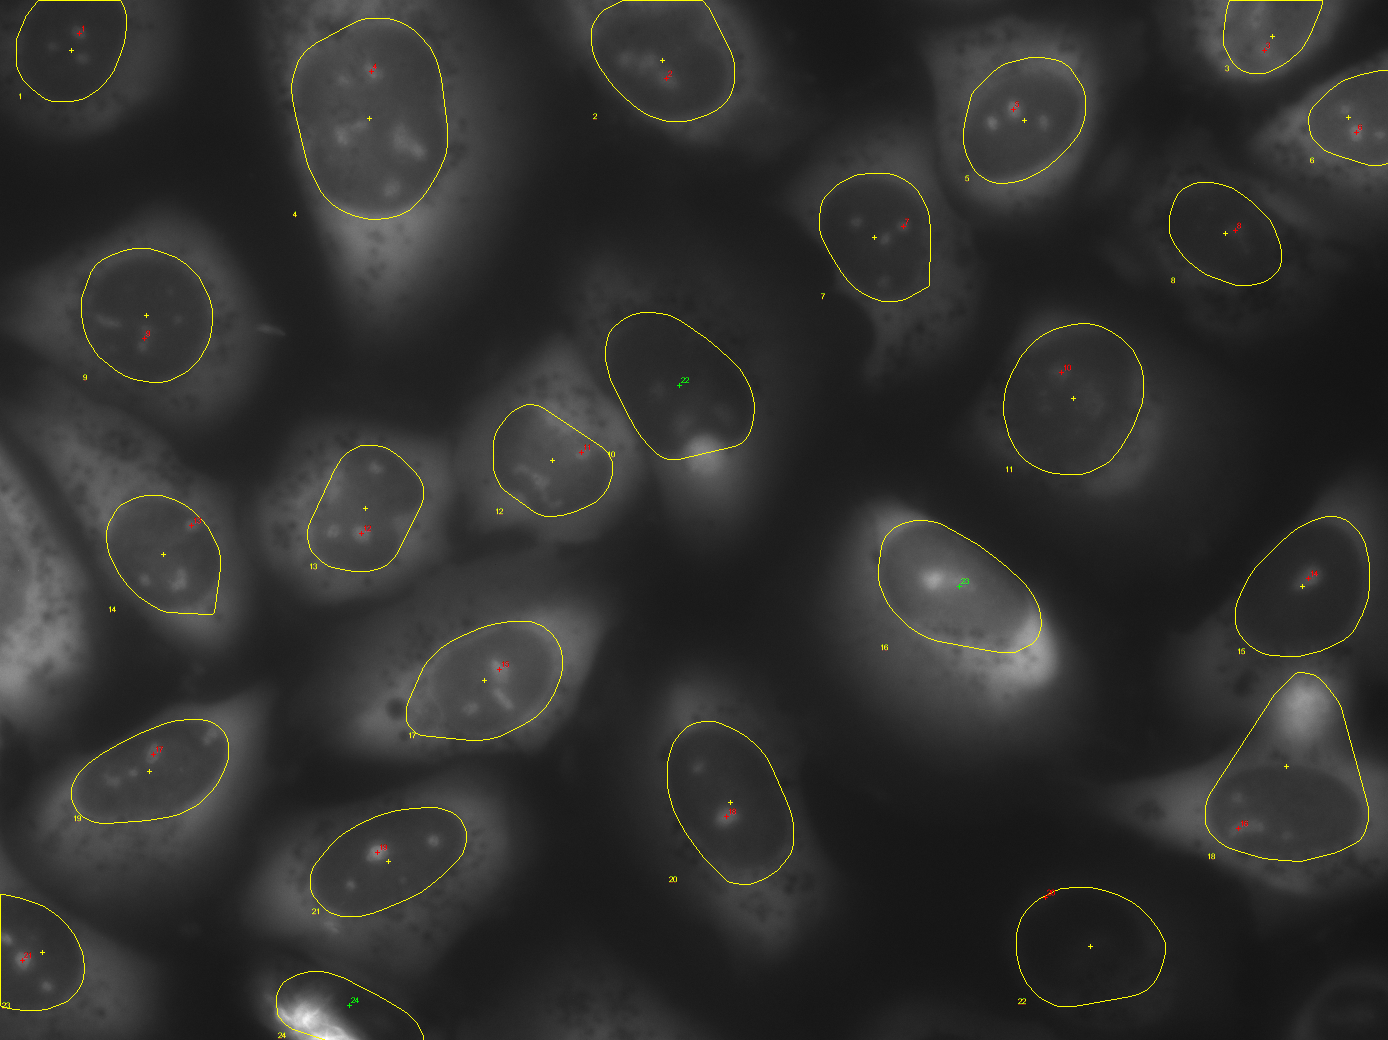
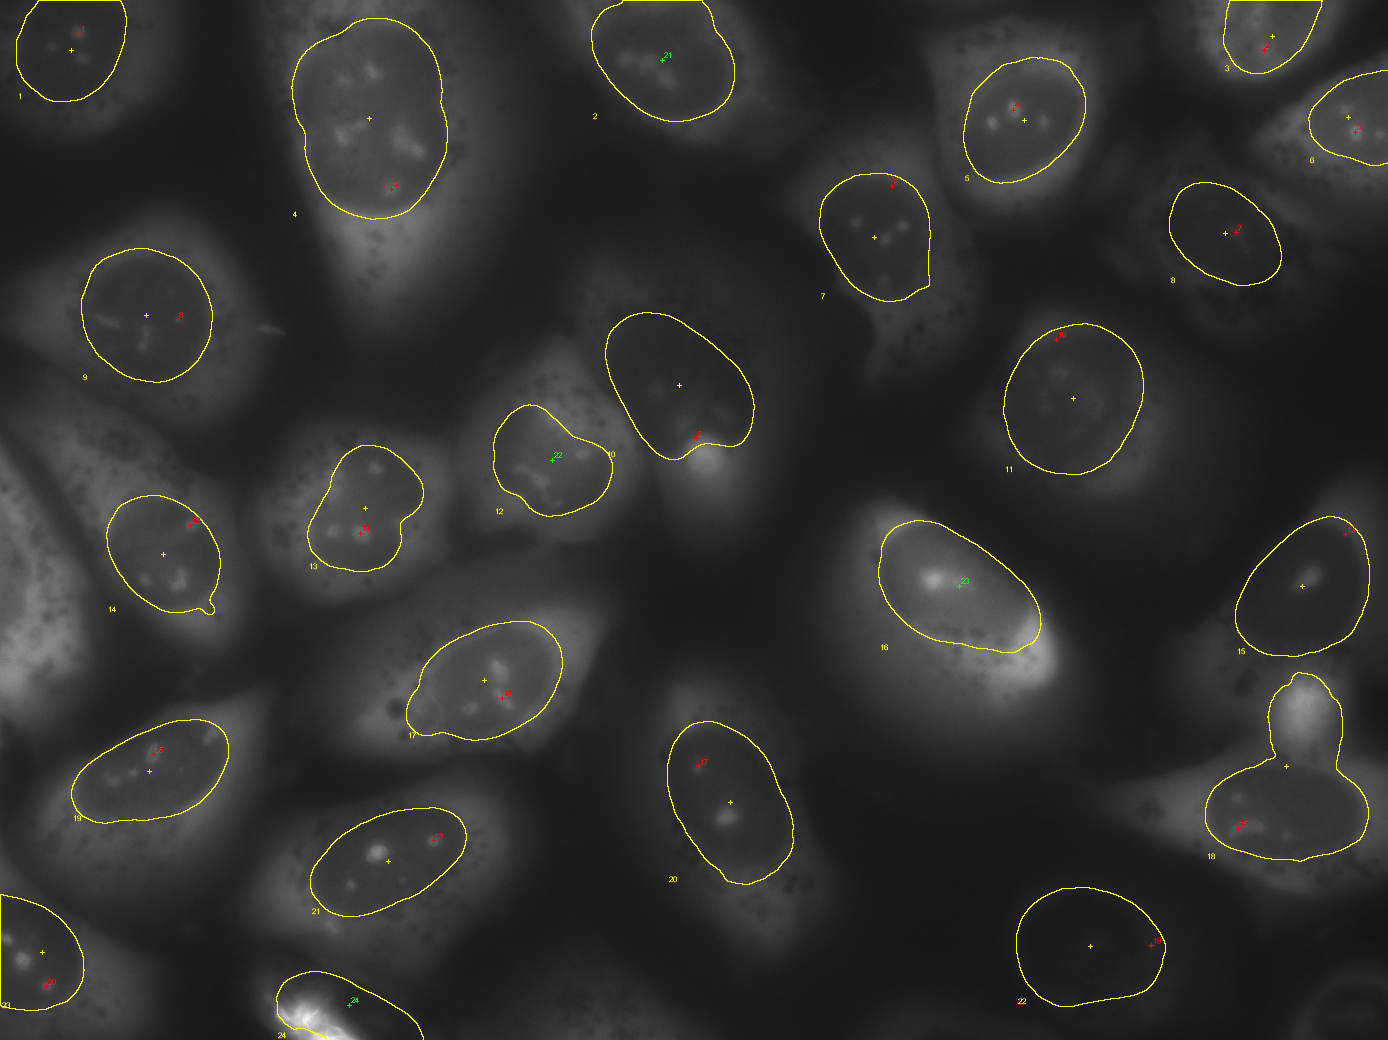
fixes #51

diff --git a/src/model/targetdetection/SelectionHelper.java b/src/model/targetdetection/SelectionHelper.java
@@ -14,7 +14,7 @@ public class SelectionHelper {
 	}
 
 	public Roi shrinkRoi(final Roi roi, final int pixelsToShrink) {
-		return RoiEnlarger.enlarge(roi, pixelsToShrink);
+		return RoiEnlarger.enlarge(roi, -pixelsToShrink);
 	}
 
 	public ImagePlus deleteSurrouding(final ImagePlus image, final Roi roi, final int xOffset, final int yOffset) {
